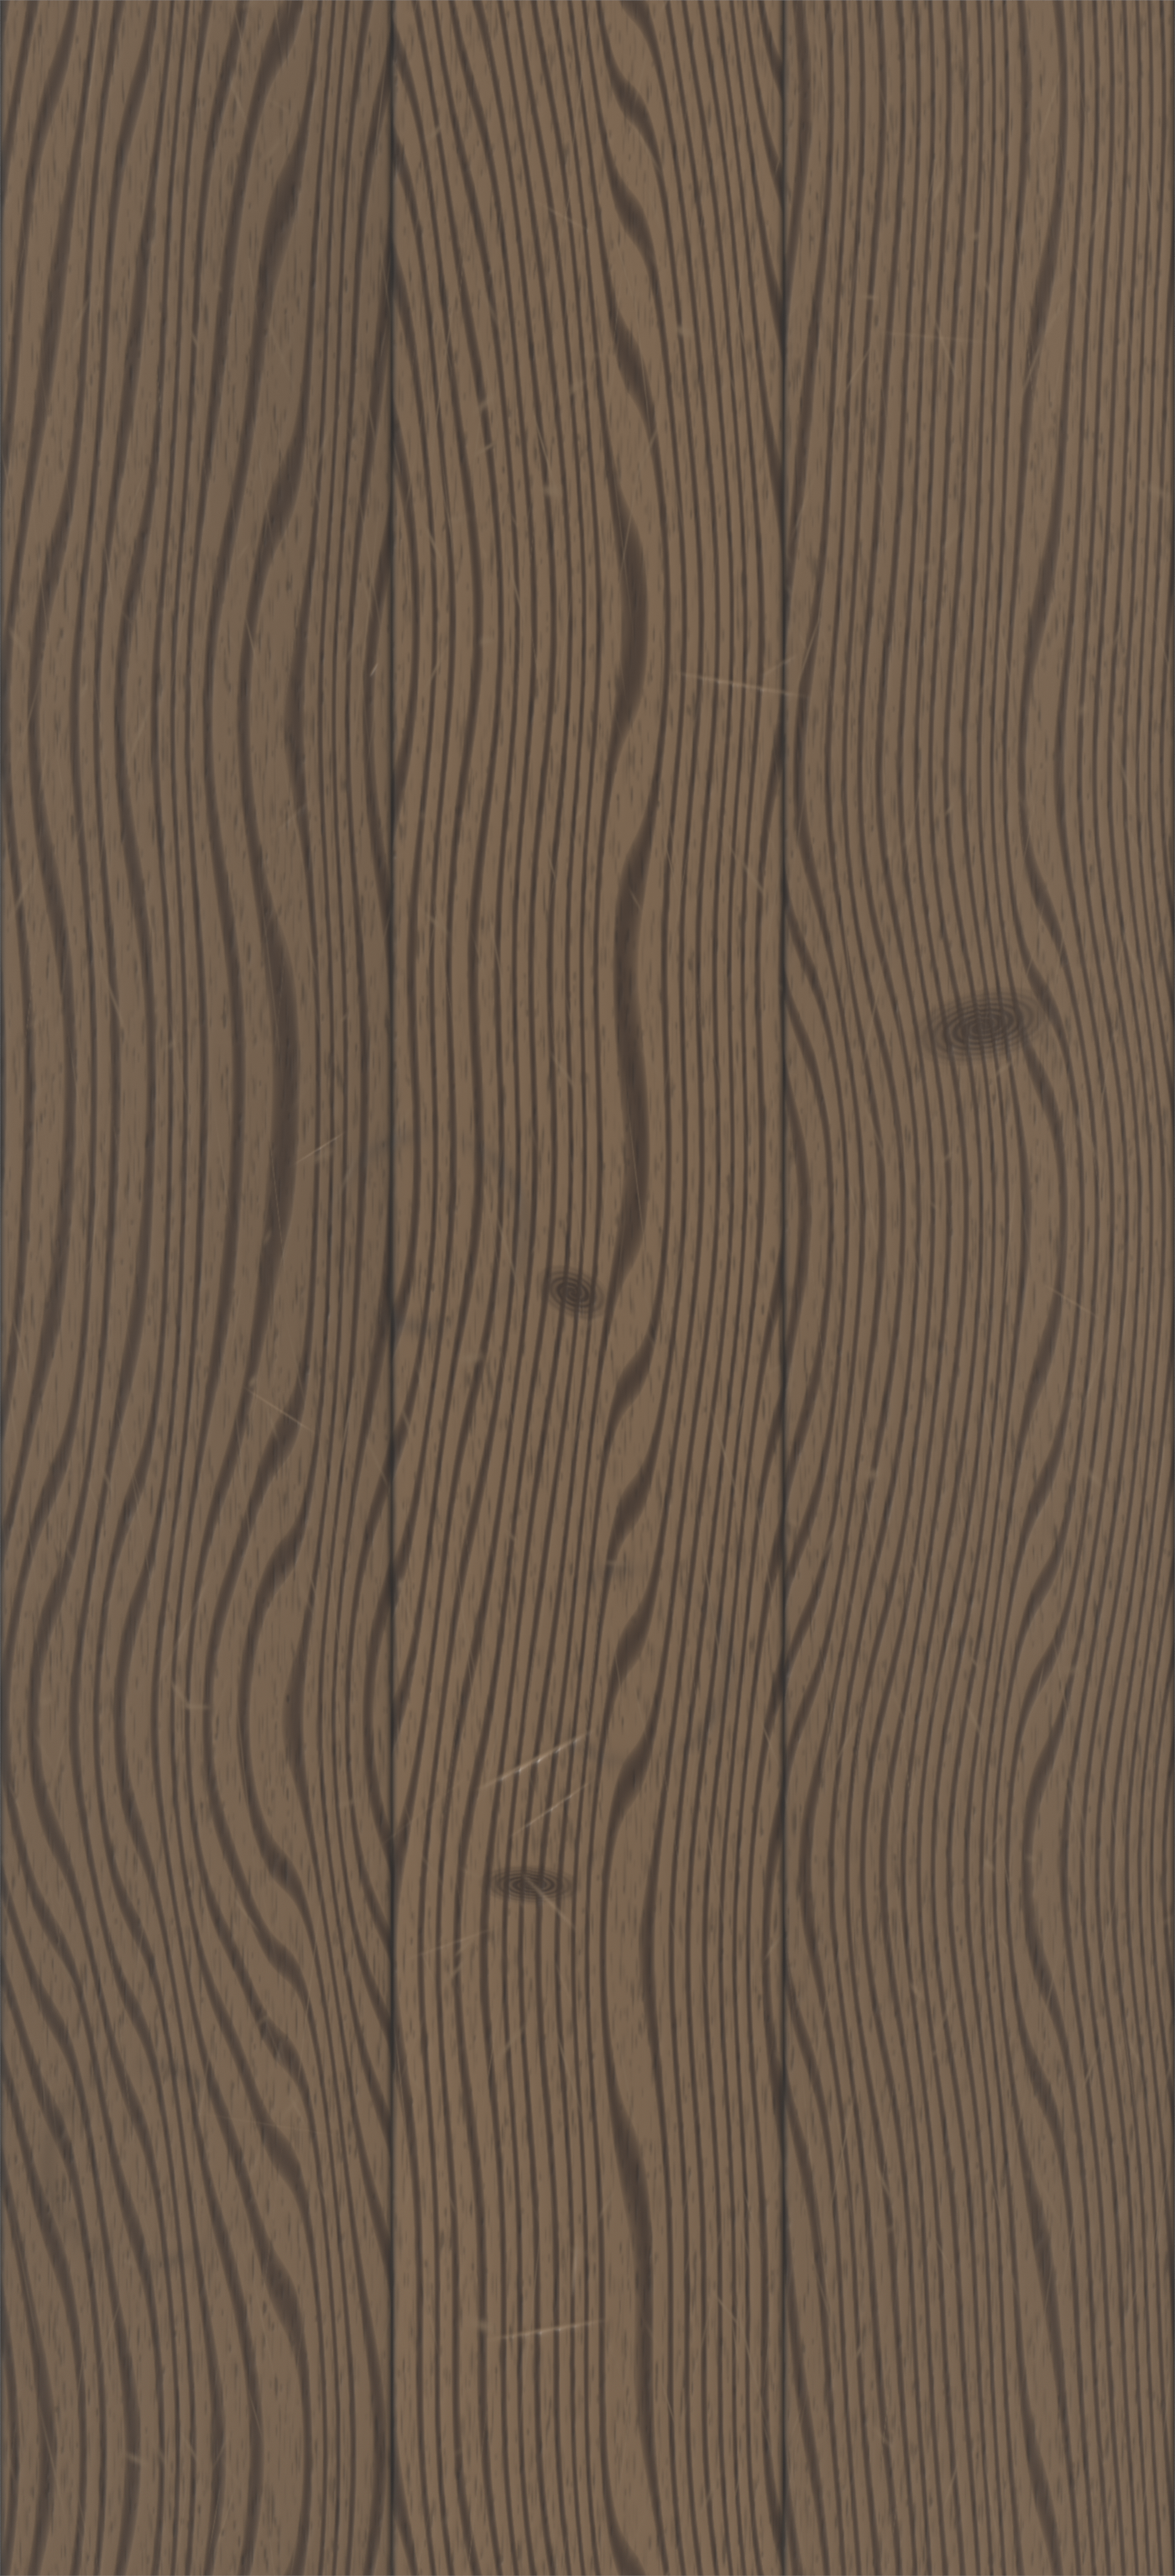
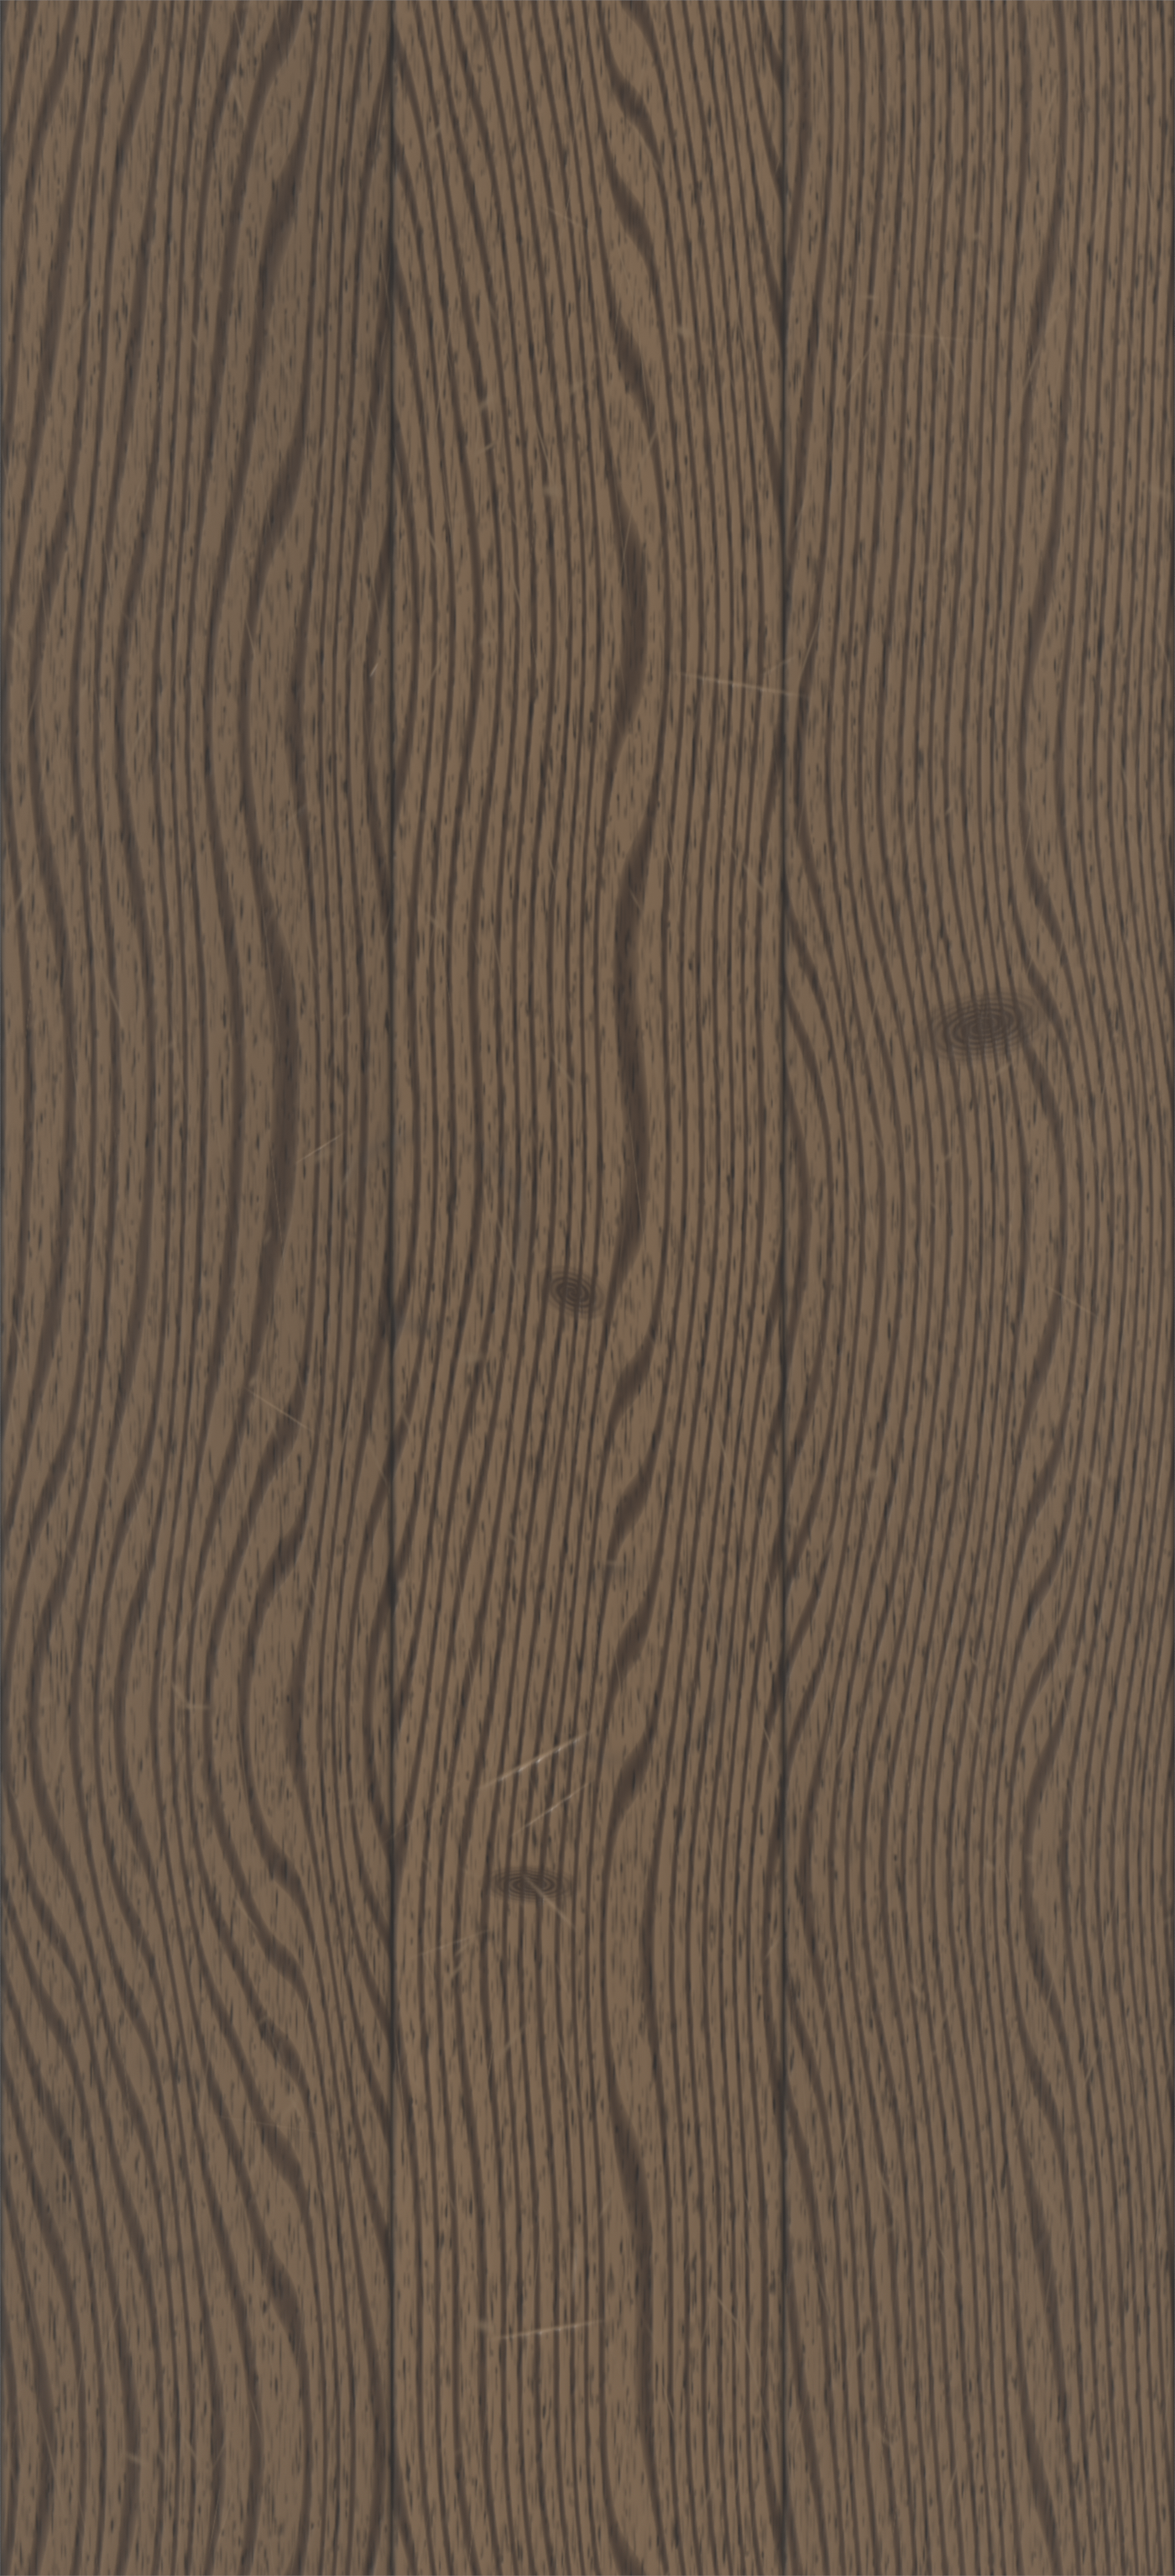
the desk has pores in it now, and the check measures the thing that changed
Five renders to work out that the number I was chasing was the wrong one. The anisotropy — the
gradient across the grain against the gradient along it — went 5.76, 5.16, 5.60, 5.11, 5.13 while
the surface went from painted stripes to visible oak, because a pore adds to the gradient in both
directions at once. What moved was the fine detail: the share of spectral power above 35 per cent
of Nyquist, 1.23 per cent before and 1.83 now, which is the number a material critic measured when
they called the desk drawn rather than photographed. tools/check/grain.py gates on that and reports
the anisotropy beside it.

What was actually wrong: the pores were seven per cent below the wood round them, which is a smudge.
A vessel cut open by a saw is twenty to thirty-five per cent down. Fifteen thousand of them at
eighty per cent, each drawn into a window round itself rather than over the whole four-million-pixel
board — the old loop cost the pore count times the entire image, which is why raising it took map
generation from a minute to longer than the render.

I also said in the last commit that the denoiser was averaging the pores away. That is not
established: turning it off and quadrupling the samples moved the fine detail from 1.12 to 1.16 per
cent, which is nothing. It stays off, because a surface whose detail is the same size as its noise
should not be denoised, but the reason the pores were invisible was that they were too pale.
[…]

diff --git a/tools/check/grain.py b/tools/check/grain.py
@@ -23,6 +23,38 @@ import sys
 ROOT = os.path.dirname(os.path.dirname(os.path.dirname(os.path.abspath(__file__))))
 
 
+def high_frequency(path, frac=0.35, tile=256):
+    """The share of spectral power above a fraction of Nyquist: how much fine detail is there.
+
+    This is the number that matters, and it took three renders to work out that the anisotropy
+    below is not. A material critic measured 0.11 to 0.49 per cent of power above 35 per cent of
+    Nyquist on the desk against 16 to 32 for the paper in the same frame, and called the desk
+    drawn rather than photographed. Anisotropy cannot see that: pores add to the gradient across
+    the grain as much as along it, so a board can go from painted stripes to visible oak and the
+    ratio will not move — it went 5.76, 5.16, 5.60, 5.11, 5.13 across five renders while the fine
+    detail went 1.23 to 1.83 per cent and the picture changed completely.
+    """
+    import numpy as np
+    from PIL import Image
+    with Image.open(path) as im:
+        a = np.asarray(im.convert("L"), dtype=np.float32)
+    h, w = a.shape
+    win = np.hanning(tile)[:, None] * np.hanning(tile)[None, :]
+    fy = np.fft.fftshift(np.fft.fftfreq(tile))[:, None]
+    fx = np.fft.fftshift(np.fft.fftfreq(tile))[None, :]
+    r = np.sqrt(fy ** 2 + fx ** 2) / 0.5
+    vals = []
+    for y in range(0, h - tile, tile):
+        for x in range(0, w - tile, tile):
+            t = a[y:y + tile, x:x + tile]
+            t = t - t.mean()
+            F = np.abs(np.fft.fftshift(np.fft.fft2(t * win))) ** 2
+            total = F.sum()
+            if total > 0:
+                vals.append(float(F[r > frac].sum() / total))
+    return float(np.median(vals)) * 100.0 if vals else 0.0
+
+
 def gradients(path, tile=128):
     import numpy as np
     from PIL import Image
@@ -42,7 +74,12 @@ def gradients(path, tile=128):
 def main():
     ap = argparse.ArgumentParser()
     ap.add_argument("files", nargs="*")
-    ap.add_argument("--max-ratio", type=float, default=3.6)
+    ap.add_argument("--max-ratio", type=float, default=3.6,
+                    help="reported, not gated: see high_frequency() for why")
+    ap.add_argument("--min-fine", type=float, default=1.6,
+                    help="the share of spectral power above 35 per cent of Nyquist, as a "
+                         "percentage. The desk measures 1.83 with its pores in and 1.23 without "
+                         "them; the paper beside it measures 7.4.")
     ap.add_argument("--out", default="")
     a = ap.parse_args()
     files = a.files or [os.path.join(ROOT, "assets", "shell", n)
@@ -60,20 +97,26 @@ def main():
         "surfaces": {},
     }
     worst = 0.0
+    finest = None
     for f in files:
         if not os.path.exists(f):
             continue
         across, along, n = gradients(f, a.tile if hasattr(a, "tile") else 128)
         ratio = across / along if along else 999.0
+        fine = high_frequency(f)
         report["surfaces"][os.path.basename(f)] = {
+            "fine_detail_share": round(fine, 2),
             "across_the_grain": round(across, 3),
             "along_the_grain": round(along, 3),
             "ratio": round(ratio, 2),
             "tiles": n,
         }
         worst = max(worst, ratio)
+        finest = fine if finest is None else min(finest, fine)
     report["worst_ratio"] = round(worst, 2)
-    report["ok"] = bool(report["surfaces"]) and worst <= a.max_ratio
+    report["least_fine_detail"] = None if finest is None else round(finest, 2)
+    report["min_fine"] = a.min_fine
+    report["ok"] = bool(report["surfaces"]) and finest is not None and finest >= a.min_fine
     text = json.dumps(report, indent=1) + "\n"
     if a.out:
         with open(a.out, "w", encoding="utf-8") as fh:

diff --git a/blender/shell/desk.py b/blender/shell/desk.py
@@ -95,7 +95,7 @@ def _placed_rays(h, w, seed, count=340):
     return np.clip(field / m * 1.6, 0, 1)
 
 
-def _placed_pores(h, w, seed, count=9000):
+def _placed_pores(h, w, seed, count=15000):
     """The open pores of a ring-porous hardwood: short dark grooves running *along* the grain.
 
     Without them the desk has no cross-grain structure at all. Measured on the asset itself, the
@@ -295,7 +295,10 @@ def desk_maps(w, h, seed):
         early = EARLY * warmth
         col = early[None, None, :] * (1 - late[..., None]) + LATE[None, None, :] * late[..., None]
         col = col * (1 + 0.10 * fibre[..., None])
-        col = col * (1 - 0.46 * pores[..., None])
+        # Oak pores are dark. Seven per cent below the wood round them is a smudge; a vessel
+        # cut open by a saw is twenty to thirty-five per cent down, and it is the thing an
+        # eye uses to tell a photograph of oak from a drawing of one.
+        col = col * (1 - 0.80 * pores[..., None])
         col = col * (1 - 0.55 * fleck[..., None]) + RAY[None, None, :] * 0.55 * fleck[..., None]
         hgt = late * -0.55 + fibre * 0.25 + fleck * 0.1 - pores * 0.62
 
